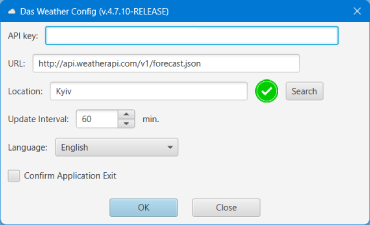
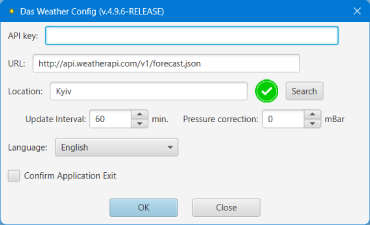
Added Pressure Correction functionality

diff --git a/src/main/java/das/tools/weather/service/ChartDataProducerImpl.java b/src/main/java/das/tools/weather/service/ChartDataProducerImpl.java
@@ -31,11 +31,13 @@ public class ChartDataProducerImpl implements ChartDataProducer {
     private final WeatherService weatherService;
     private final LocalizeResourcesService localizeService;
     private final CbwmService cbwmService;
+    private final CommonUtilsService commonUtils;
 
-    public ChartDataProducerImpl(WeatherService weatherService, LocalizeResourcesService localizeService, CbwmService cbwmService) {
+    public ChartDataProducerImpl(WeatherService weatherService, LocalizeResourcesService localizeService, CbwmService cbwmService, CommonUtilsService commonUtils) {
         this.weatherService = weatherService;
         this.localizeService = localizeService;
         this.cbwmService = cbwmService;
+        this.commonUtils = commonUtils;
     }
 
     @Override
@@ -59,7 +61,8 @@ public class ChartDataProducerImpl implements ChartDataProducer {
             Number[] windValues = new Number[HOURS];
             for (WeatherHour hour : day.getHour()) {
                 temperatureValues[hourIndex] = hour.getTemperature();
-                pressureValues[hourIndex] = GuiControllerImpl.millibarToMmHg(hour.getPressure());
+                float pressure = commonUtils.getCorrectedPressureValue(hour.getPressure());
+                pressureValues[hourIndex] = GuiControllerImpl.millibarToMmHg(pressure);
                 humidityValues[hourIndex] = hour.getHumidity();
                 cloudValues[hourIndex] = hour.getCloud();
                 windValues[hourIndex] = hour.getWindKmh();
@@ -121,13 +124,14 @@ public class ChartDataProducerImpl implements ChartDataProducer {
     }
 
     private String getTooltipText(WeatherHour hour) {
+        float pressure = commonUtils.getCorrectedPressureValue(hour.getPressure());
         return String.format(
                 localizeService.getLocalizedResource("point.tooltip"),
                 hour.getTime(),
                 hour.getCondition().getText(),
                 hour.getTemperature(), hour.getTemperatureF(), hour.getFeelsLike(), hour.getFeelsLikeF(),
                 hour.getHumidity(),
-                GuiControllerImpl.millibarToMmHg(hour.getPressure()), hour.getPressure(),
+                GuiControllerImpl.millibarToMmHg(pressure), pressure,
                 hour.getWindDirection(), hour.getWindKmh(), hour.getWindMph(), hour.getGustKmh(), hour.getGustMph()
         );
     }

diff --git a/src/main/java/das/tools/weather/gui/ConfigControllerImpl.java b/src/main/java/das/tools/weather/gui/ConfigControllerImpl.java
@@ -57,6 +57,8 @@ public class ConfigControllerImpl implements ConfigController {
     @FXML private Button btCancel;
     @FXML private Button btSearchLocation;
     @FXML private ImageView imgConfirmed;
+    @FXML private Label lbPressureCorrection;
+    @FXML private Spinner<Integer> spPressureCorrection;
     public ConfigControllerImpl(GuiConfigService configService, LocalizeResourcesService localizeService, BuildProperties buildProperties, AlertService alertService, FxWeaver fxWeaver, WeatherService weatherService) {
         this.configService = configService;
         this.localizeService = localizeService;
@@ -130,6 +132,12 @@ public class ConfigControllerImpl implements ConfigController {
                         )
                 )
         );
+        spPressureCorrection.getValueFactory().setValue(
+                Integer.parseInt(
+                        appProps.getProperty(GuiConfigService.GUI_PRESSURE_CORRECTION_KEY,
+                                configService.getDefaultConfigValue(GuiConfigService.GUI_PRESSURE_CORRECTION_KEY)
+                )
+        ));
         cbCondLang.setItems(getLanguagesList());
         String langName = configService.getLangName(
                 appProps.getProperty(GuiConfigService.GUI_CONFIG_CONDITION_LANGUAGE_KEY,
@@ -202,6 +210,7 @@ public class ConfigControllerImpl implements ConfigController {
         lbLanguage.setText(localizeService.getLocalizedResource("label.language"));
         chbConfirmExit.setText(localizeService.getLocalizedResource("box.confirm.exit"));
         btCancel.setText(localizeService.getLocalizedResource( "button.close"));
+        lbPressureCorrection.setText(localizeService.getLocalizedResource("label.pressure.correction"));
     }
 
     @Override
@@ -246,6 +255,7 @@ public class ConfigControllerImpl implements ConfigController {
         setPropertyIfChanged(GuiConfigService.GUI_CONFIG_UPDATE_INTERVAL_KEY, String.valueOf(minToMSec(spUpdateInterval.getValue())));
         String langCode = configService.getLangCode(cbCondLang.getValue());
         setPropertyIfChanged(GuiConfigService.GUI_CONFIG_CONDITION_LANGUAGE_KEY, langCode);
+        setPropertyIfChanged(GuiConfigService.GUI_PRESSURE_CORRECTION_KEY, String.valueOf(spPressureCorrection.getValue()));
     }
 
     private void setPropertyIfChanged(String key, String value) {

diff --git a/src/main/java/das/tools/weather/gui/GuiControllerImpl.java b/src/main/java/das/tools/weather/gui/GuiControllerImpl.java
@@ -386,12 +386,17 @@ public class GuiControllerImpl implements GuiController {
     }
 
     private void fillPressure(WeatherCurrent current) {
-        lbPressure.setText(String.format("%.0f mmHg", millibarToMmHg(current.getPressureMb())));
-        Tooltip tooltip = getTooltip(String.format(localizeService.getLocalizedResource("pressure.tooltip"), millibarToMmHg(current.getPressureMb()), current.getPressureMb()));
+        float pressureMb = commonUtils.getCorrectedPressureValue(current.getPressureMb());
+        double pressureMmHg = millibarToMmHg(pressureMb);
+        lbPressure.setText(String.format("%.0f mmHg", pressureMmHg));
+        int pressureCorrection = Integer.parseInt(configService.getConfigStringValue(GuiConfigService.GUI_PRESSURE_CORRECTION_KEY));
+        String correctionText = (pressureCorrection != 0) ? String.format(localizeService.getLocalizedResource("pressure.tooltip.corrected"), pressureCorrection) : "";
+        Tooltip tooltip = getTooltip(String.format(localizeService.getLocalizedResource("pressure.tooltip") + correctionText,
+                pressureMmHg, pressureMb));
         tooltip.setGraphic(getTooltipImage(imgPressure.getImage(), 100));
         Tooltip.install(pressureBox, tooltip);
         pressureBox.setStyle(String.format("-fx-background-color: %s",
-                ColorEngineFactory.getEngine(ColorElement.PRESSURE).getColor((int) current.getPressureMb())));
+                ColorEngineFactory.getEngine(ColorElement.PRESSURE).getColor((int) pressureMmHg)));
     }
 
     public static ImageView getTooltipImage(Image image, int width) {

diff --git a/src/main/java/das/tools/weather/service/CbwmServiceImpl.java b/src/main/java/das/tools/weather/service/CbwmServiceImpl.java
@@ -4,8 +4,10 @@ import das.tools.weather.entity.current.WeatherCurrent;
 import das.tools.weather.entity.forecast.WeatherAstro;
 import das.tools.weather.entity.forecast.WeatherDayForecast;
 import das.tools.weather.entity.forecast.WeatherHour;
+import das.tools.weather.gui.GuiControllerImpl;
 import das.tools.weather.gui.color.ColorElement;
 import das.tools.weather.gui.color.ColorEngineFactory;
+import lombok.extern.slf4j.Slf4j;
 import org.springframework.stereotype.Service;
 
 import java.awt.*;
@@ -54,7 +56,8 @@ public class CbwmServiceImpl implements CbwmService { // CBWM - Color Bricks Wea
         int[] res = new int[3];
         res[0] = commonUtils.toIntColor(ColorEngineFactory.getEngine(ColorElement.CLOUDY).getColor(hour.getCloud()));
         res[1] = commonUtils.toIntColor(ColorEngineFactory.getEngine(ColorElement.PRECIPITATIONS).getColor((int) hour.getPrecipitation()));
-        res[2] = commonUtils.toIntColor(ColorEngineFactory.getEngine(ColorElement.PRESSURE).getColor((int) hour.getPressure()));
+        double pressureMmHg = GuiControllerImpl.millibarToMmHg(commonUtils.getCorrectedPressureValue(hour.getPressure()));
+        res[2] = commonUtils.toIntColor(ColorEngineFactory.getEngine(ColorElement.PRESSURE).getColor((int) pressureMmHg));
         return res;
     }
 

diff --git a/src/main/java/das/tools/weather/service/CommonUtilsServiceImpl.java b/src/main/java/das/tools/weather/service/CommonUtilsServiceImpl.java
@@ -9,6 +9,12 @@ import java.time.LocalTime;
 @Service
 public class CommonUtilsServiceImpl implements CommonUtilsService {
 
+    private final GuiConfigService configService;
+
+    public CommonUtilsServiceImpl(GuiConfigService configService) {
+        this.configService = configService;
+    }
+
     @Override
     public int toIntTime(String s) {
         String[] split = s.split(":");
@@ -35,5 +41,10 @@ public class CommonUtilsServiceImpl implements CommonUtilsService {
         LocalTime startTime = LocalTime.parse(start, GuiController.TIME_FORMATTER_FOR_RESPONSE);
         LocalTime stopTime = LocalTime.parse(stop, GuiController.TIME_FORMATTER_FOR_RESPONSE);
         return Duration.between(startTime, stopTime).getSeconds();
+    }
+
+    @Override
+    public int getCorrectedPressureValue(double sourcePressure) {
+        return (int) (sourcePressure + Integer.parseInt(configService.getConfigStringValue(GuiConfigService.GUI_PRESSURE_CORRECTION_KEY)));
     }
 }

diff --git a/src/main/java/das/tools/weather/service/GuiConfigServiceImpl.java b/src/main/java/das/tools/weather/service/GuiConfigServiceImpl.java
@@ -43,6 +43,7 @@ public class GuiConfigServiceImpl implements GuiConfigService {
         Map<String,String> mapDefaults = GUI_CONFIG_DEFAULT_VALUES;
         mapDefaults.put(GUI_CONFIG_DEFAULT_FILE_NAME_KEY, "config/gui.config");
         mapDefaults.put(GUI_CONFIG_UPDATE_INTERVAL_KEY, "3600000");
+        mapDefaults.put(GUI_PRESSURE_CORRECTION_KEY, "0");
         mapDefaults.put(GUI_CONFIG_CONFIRM_EXIT_KEY, "true");
         mapDefaults.put(GUI_CONFIG_API_KEY_KEY, "");
         mapDefaults.put(GUI_CONFIG_WEATHER_LOCATION_KEY, "Kyiv");
@@ -76,6 +77,12 @@ public class GuiConfigServiceImpl implements GuiConfigService {
 
     @Override
     public String getConfigStringValue(String key, String defValue) {
+        return getCurrentConfig().getProperty(key, defValue);
+    }
+
+    @Override
+    public String getConfigStringValue(String key) {
+        String defValue = getDefaultConfigValue(key);
         return getCurrentConfig().getProperty(key, defValue);
     }
 

diff --git a/src/main/java/das/tools/weather/service/GuiConfigService.java b/src/main/java/das/tools/weather/service/GuiConfigService.java
@@ -7,6 +7,7 @@ import java.util.Properties;
 public interface GuiConfigService {
     String GUI_CONFIG_DEFAULT_FILE_NAME_KEY = "gui.config";
     String GUI_CONFIG_UPDATE_INTERVAL_KEY = "app.update.interval.msec";
+    String GUI_PRESSURE_CORRECTION_KEY = "app.pressure.correction.mbar";
     String GUI_CONFIG_CONFIRM_EXIT_KEY = "app.confirm-exit";
     String GUI_CONFIG_API_KEY_KEY = "app.api-key";
     String GUI_CONFIG_WEATHER_LOCATION_KEY = "app.weather.location";
@@ -28,6 +29,8 @@ public interface GuiConfigService {
     void saveConfig(Properties props);
 
     String getConfigStringValue(String key, String defValue);
+
+    String getConfigStringValue(String key);
 
     String getLangName(String code);
 

diff --git a/src/main/java/das/tools/weather/gui/ForecastControllerImpl.java b/src/main/java/das/tools/weather/gui/ForecastControllerImpl.java
@@ -34,7 +34,6 @@ import javax.imageio.ImageIO;
 import java.awt.image.BufferedImage;
 import java.io.File;
 import java.io.IOException;
-import java.time.Duration;
 import java.time.LocalTime;
 import java.util.LinkedList;
 import java.util.List;

diff --git a/src/main/java/das/tools/weather/service/CommonUtilsService.java b/src/main/java/das/tools/weather/service/CommonUtilsService.java
@@ -8,4 +8,6 @@ public interface CommonUtilsService {
     String getTimeLength(String start, String stop);
 
     long getDiffSeconds(String start, String stop);
+
+    int getCorrectedPressureValue(double sourcePressure);
 }

diff --git a/README.md b/README.md
@@ -43,6 +43,7 @@
   - Weather's API end point link
   - Location - may be found in [Location Window](#LocationWin)
   - Weather update interval (60 minutes - minimal interval)
+  - Pressure correction value (between -100 and 100 mBar; 0 - default value). Those value was added because coming from weather server is not valid.
   - Interface language
   - Application exit confirmation
 
